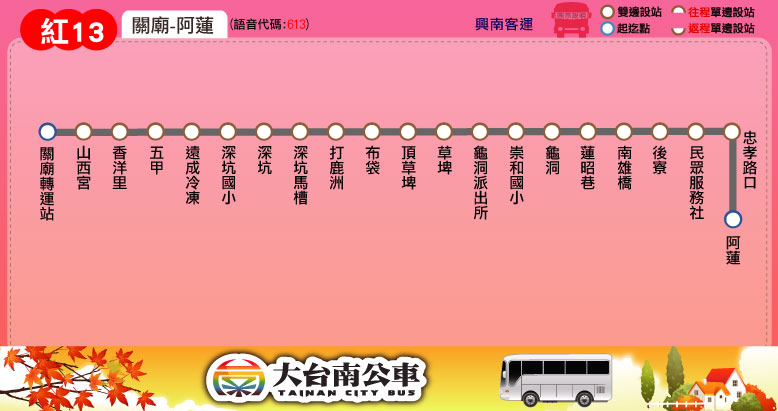
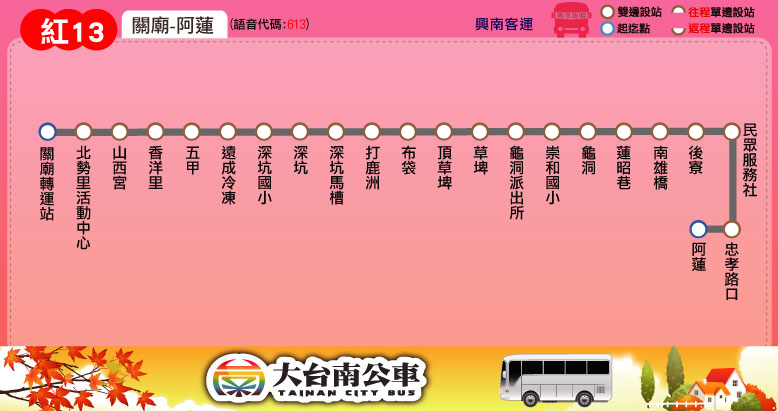
新增站位：綠16、紅10、紅13 (新增「北勢里活動中心」站)

Changed region(s): [[0.0925, 0.3504, 0.9563, 0.7299], [0.9563, 0.292, 0.9871, 0.4964]]

diff --git a/route/fare_and_time/green_16.js b/route/fare_and_time/green_16.js
@@ -3,7 +3,7 @@ green_16_interval_stop = [
 ["新化站","新化體育公園","瓜瓜園生態館","農會前","清水寺","營盤後","洋子","竹子腳","統一花園"], // 新化
 ["頂山子腳","加州新城","孤山子","埤頭里","埤子頭","下山子腳"], // 埤子頭
 ["下湖","悠然山莊","關廟交流道","過坑子"], // 關廟交流道
-["關廟轉運站","花園","北勢里"], // 花園
+["北勢里活動中心","關廟轉運站","花園","北勢里"], // 花園
 ["關廟公所","山西宮","關廟國中","大亞公司"], // 關廟
 ["歸仁交流道","修元堂","看東里","善化寺","歸仁文化中心","歸仁市場","新豐高中","歸仁國中","歸仁公所","歸仁公所(中正南路)","崁仔頭","崁仔下","歸南","頂歸南","歸南派出所"], // 歸仁
 ["六甲(中正南路)","歸仁分局","成大歸仁校區"], // 六甲

diff --git a/route/fare_and_time/red_10.js b/route/fare_and_time/red_10.js
@@ -1,6 +1,6 @@
 red_10_interval_name = ["花園","關廟","歸仁","仁德","太子廟","大灣","永康","二王","奇美<br />醫院"];
 red_10_interval_stop = [
-["關廟轉運站"], // 花園
+["關廟轉運站","北勢里活動中心"], // 花園
 ["關廟公所","北勢里","得玉興書局","中山路","關廟國中","大亞公司"], // 關廟
 ["歸仁交流道","修元堂","看東里","善化寺","歸仁文化中心","歸仁市場","歸仁公所","後市","姓李仔","南保","南興里","上帝廟"], // 歸仁
 ["貝汝流通","林仔","義林一街口","慈濟臺南分會","鐘厝","仁義里","仁德","仁德公所","一甲廟路口"], // 仁德

diff --git a/route/fare_and_time/red_13.js b/route/fare_and_time/red_13.js
@@ -1,6 +1,6 @@
 red_13_interval_name = ["花園","關廟","深坑","布袋","龜洞","南雄橋","阿蓮"];
 red_13_interval_stop = [
-["關廟轉運站"], // 花園
+["關廟轉運站","北勢里活動中心"], // 花園
 ["山西宮","香洋里","五甲"], // 關廟
 ["遠成冷凍","深坑國小","深坑","深坑馬槽"], // 深坑
 ["打鹿洲","布袋","頂草埤","草埤"], // 布袋
